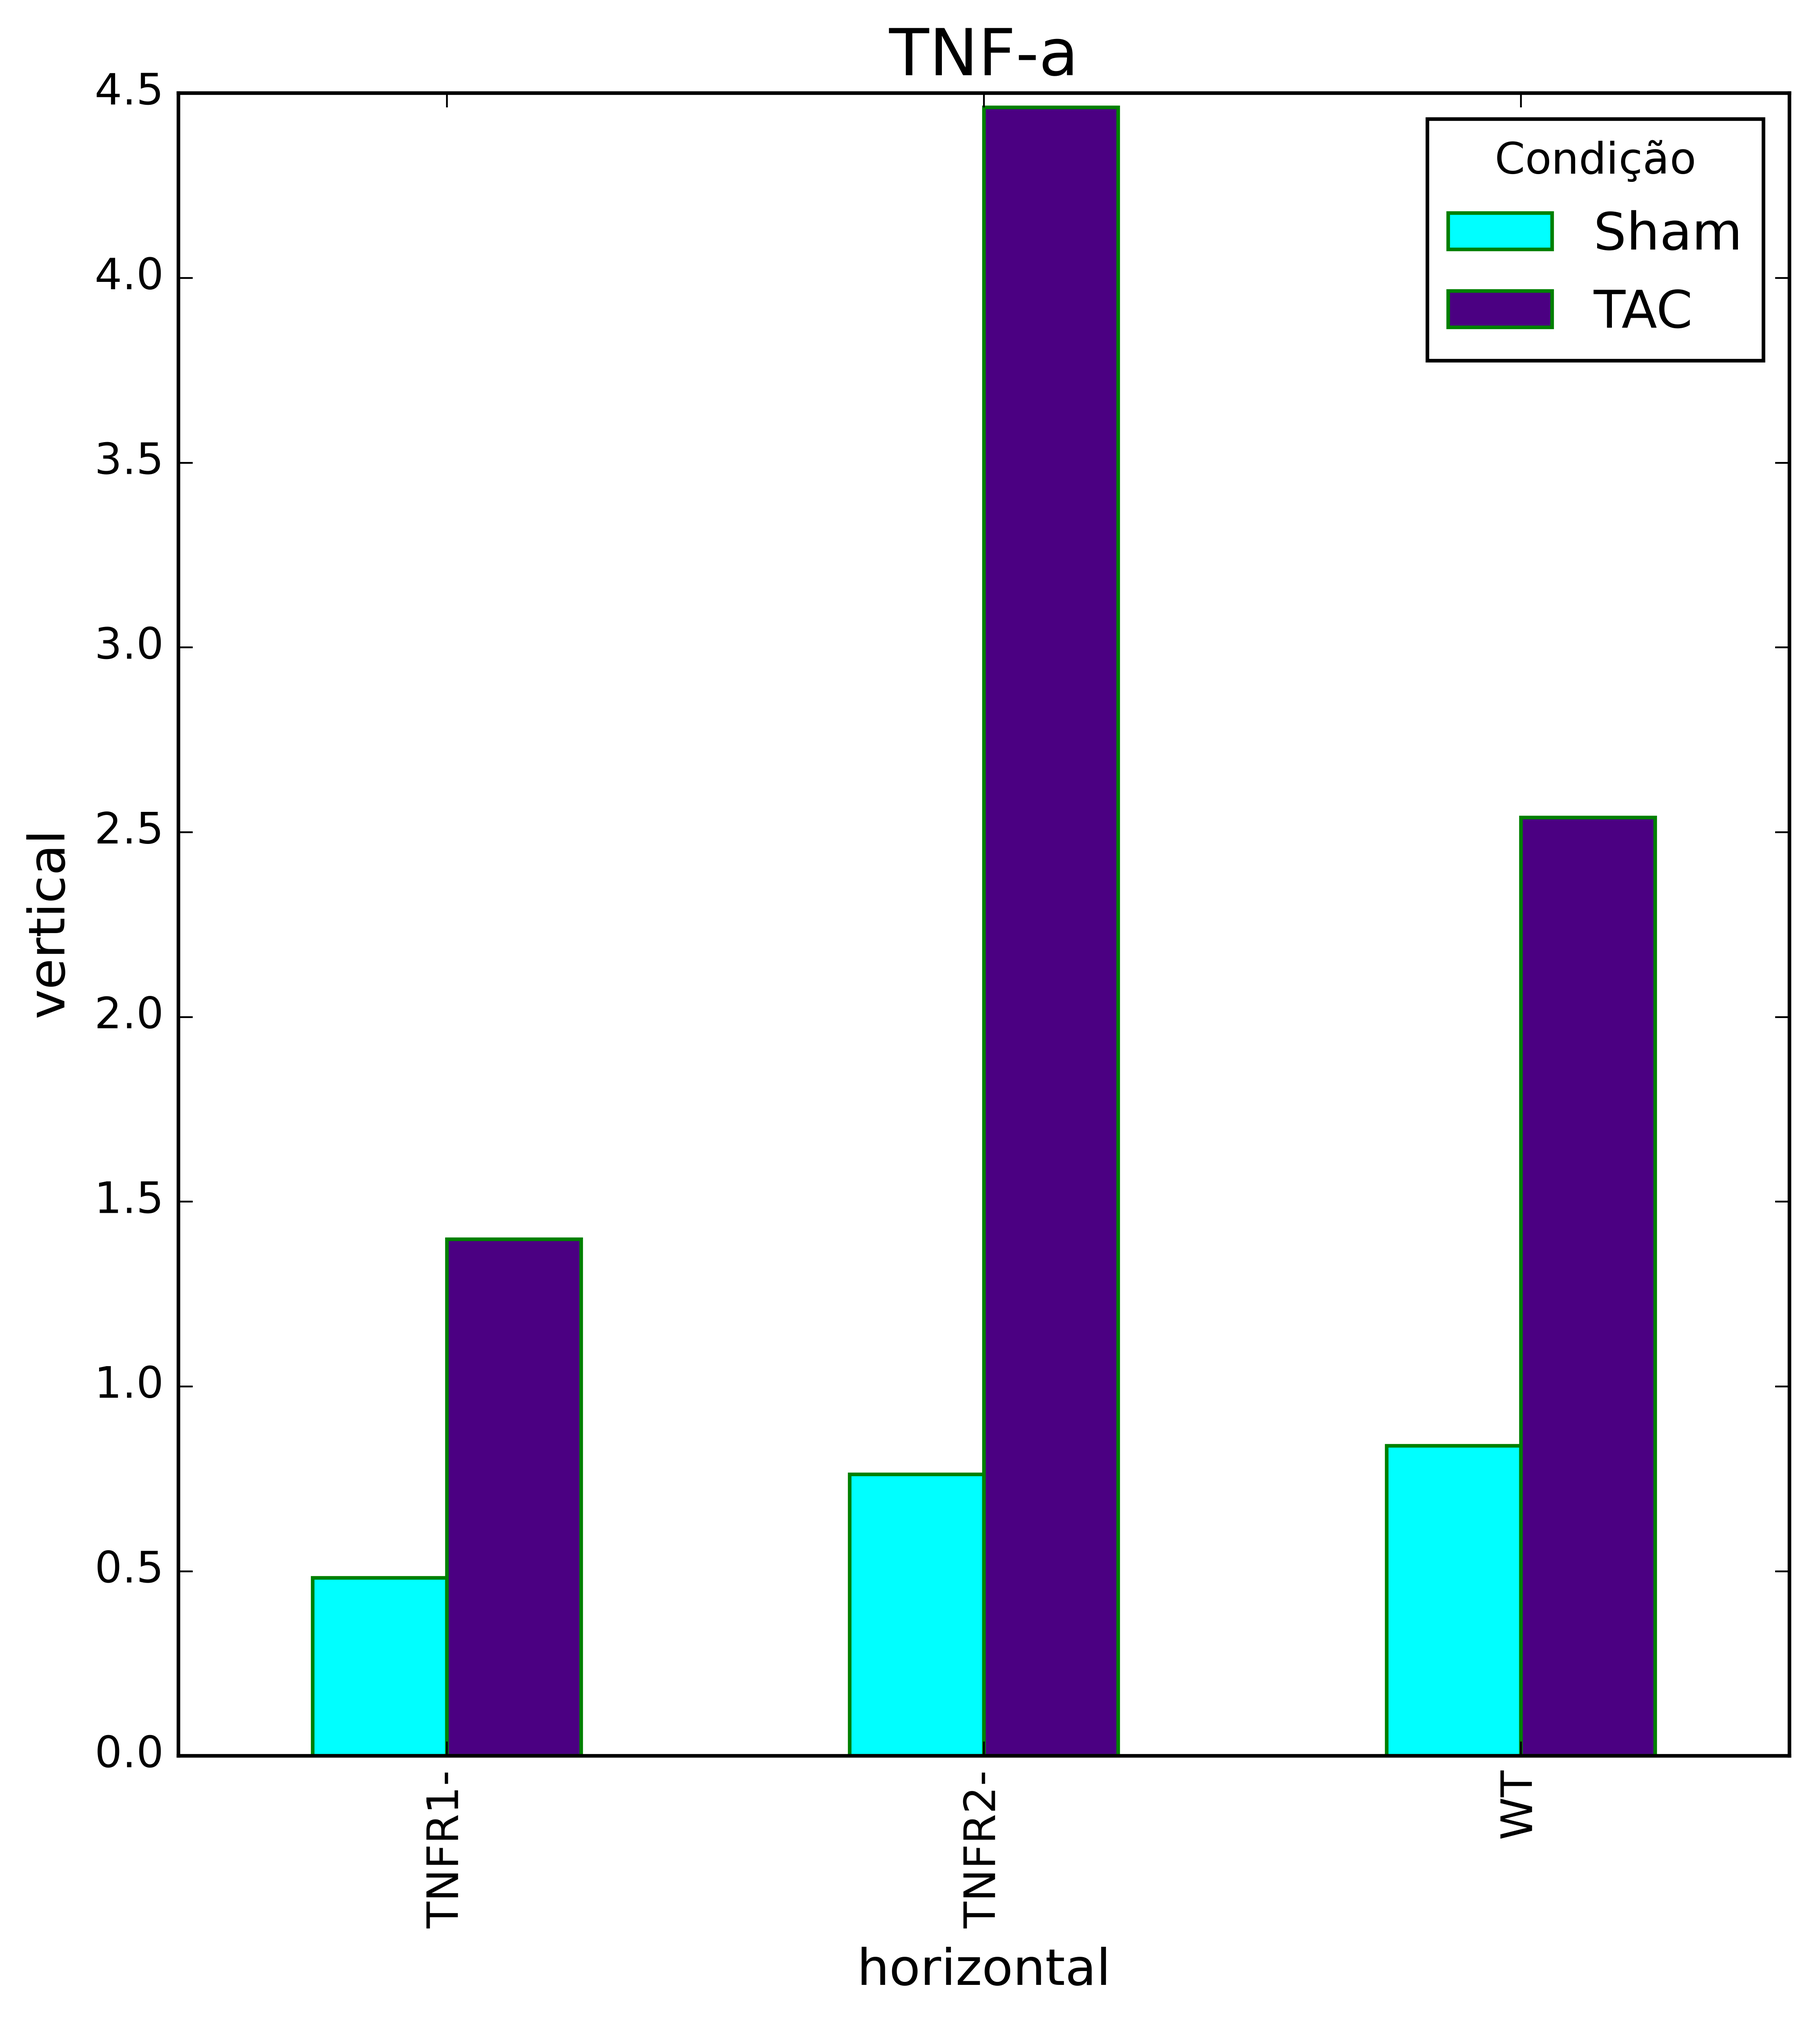
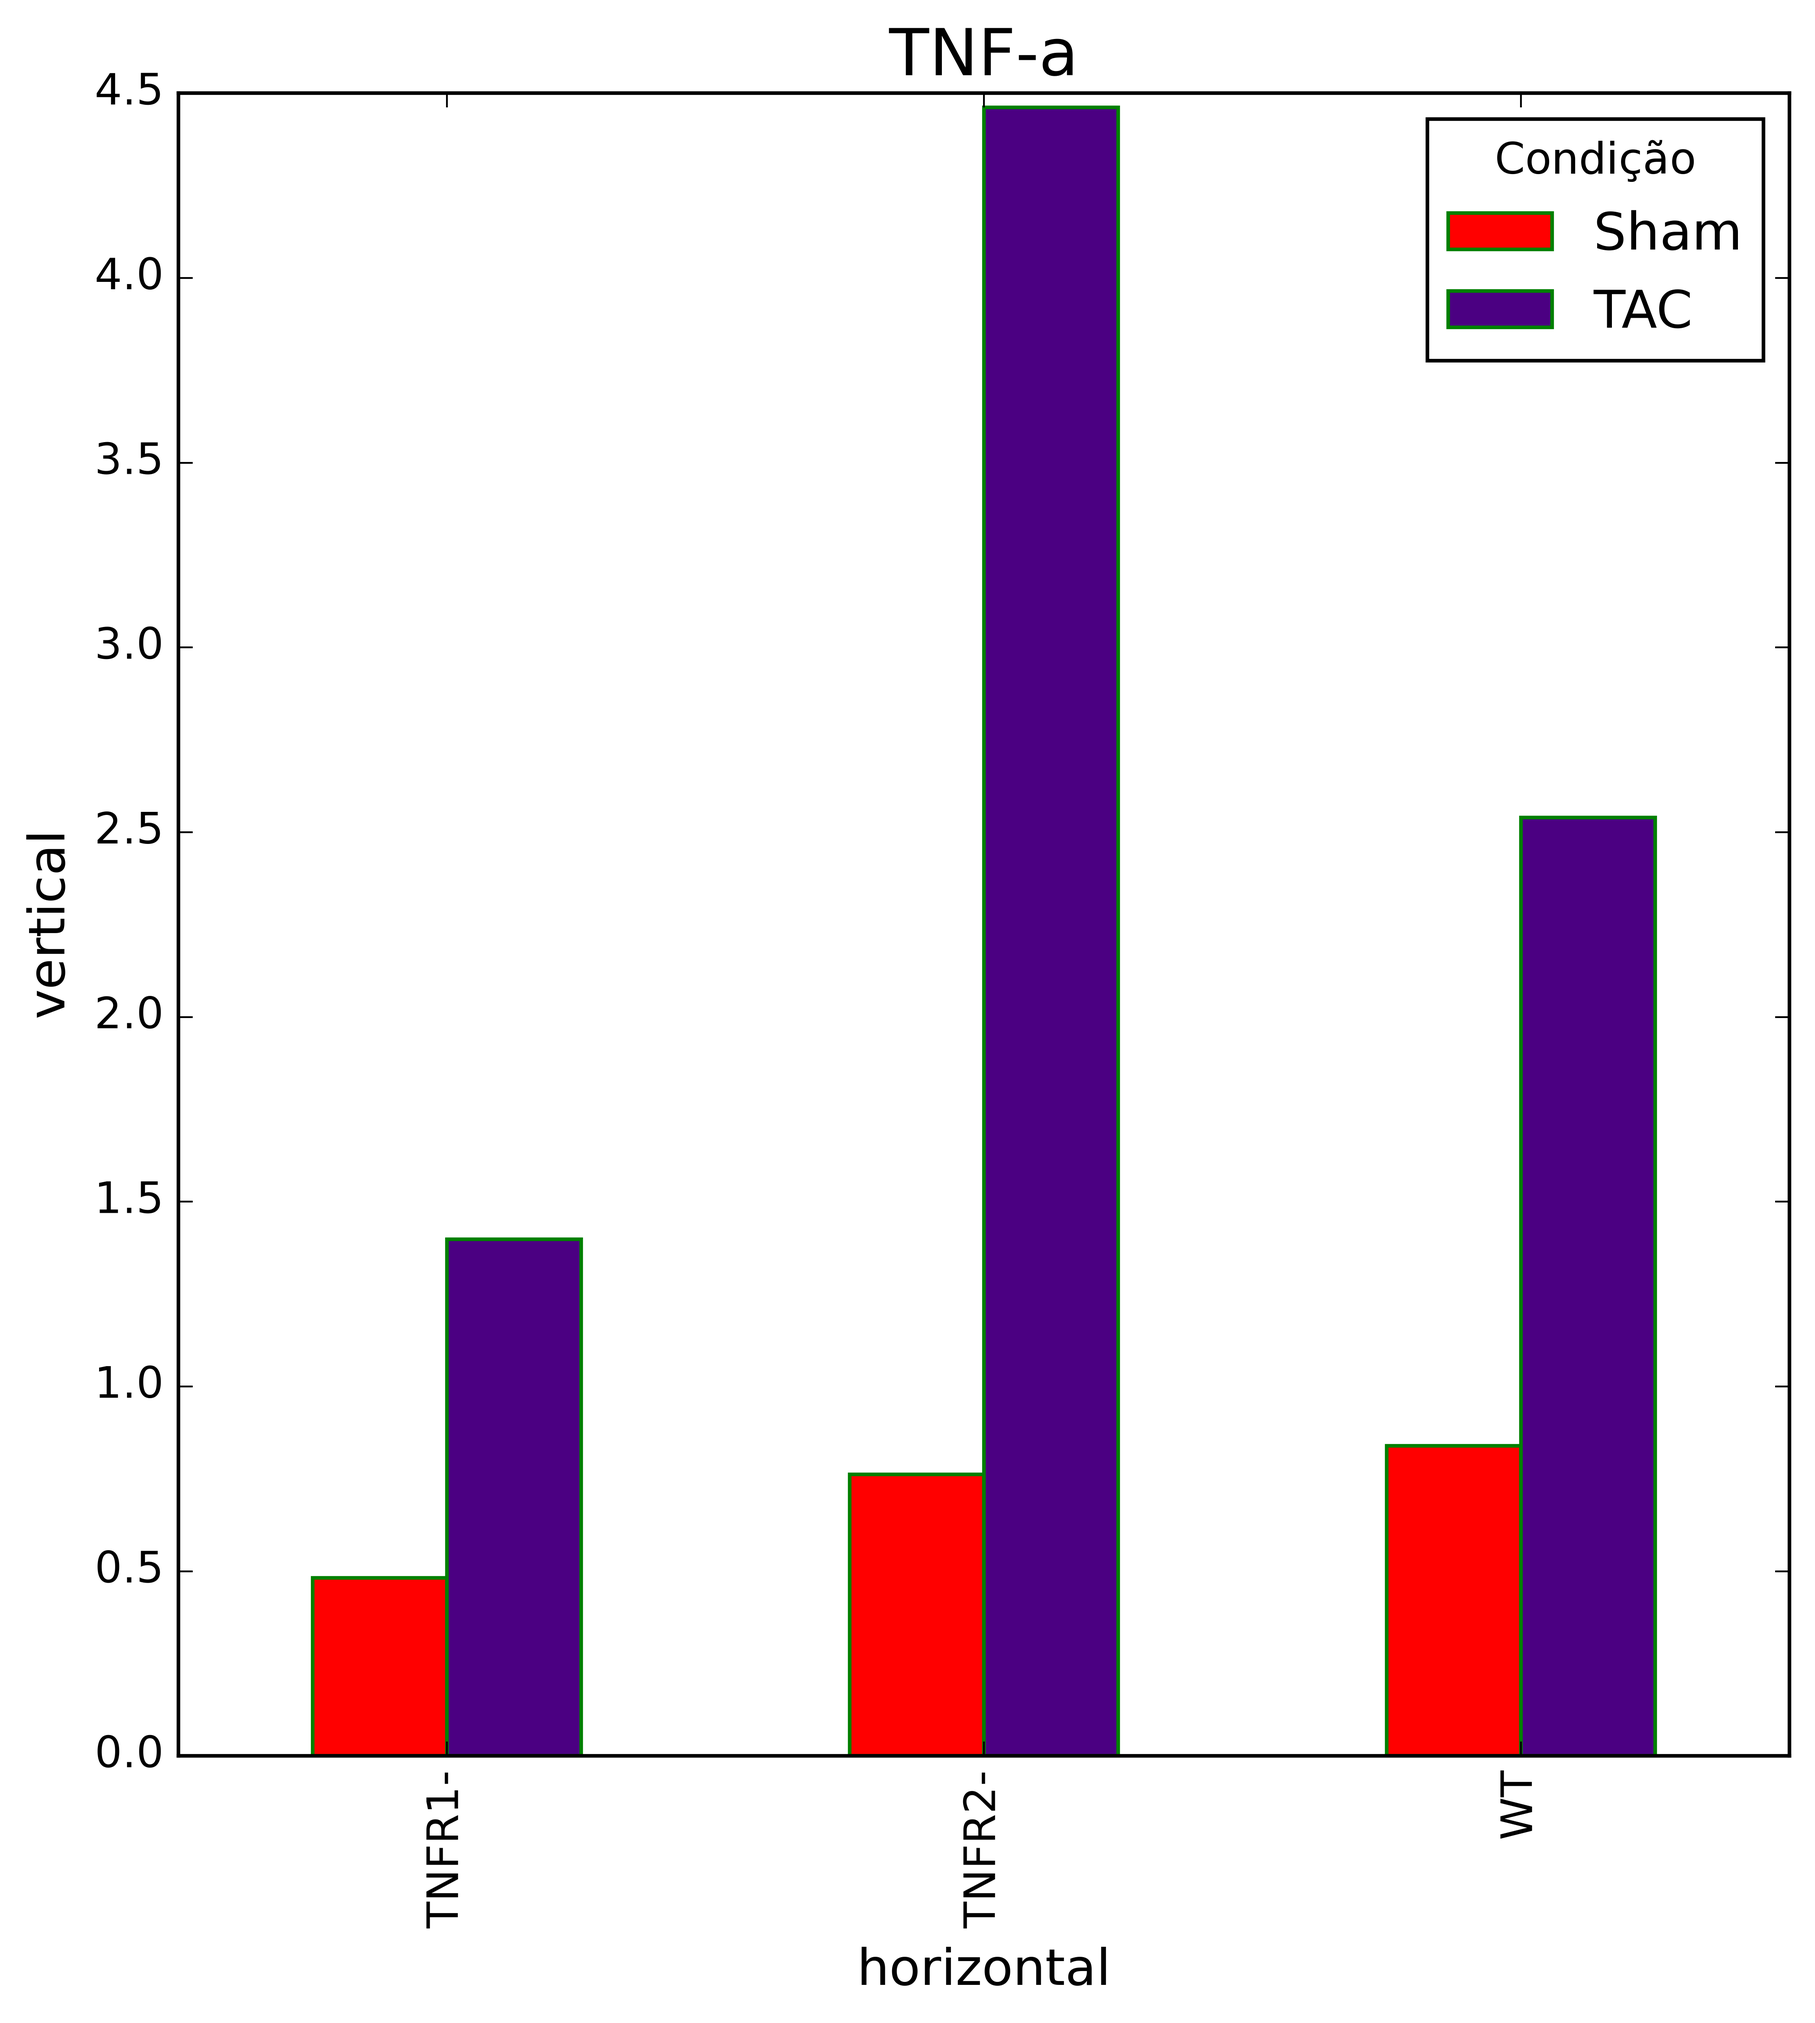
mudança de cor da barra

diff --git a/Problemas/Problema1.py b/Problemas/Problema1.py
@@ -19,7 +19,7 @@ print(tabela_medias)
 
 #Gráfico
 plt.style.use('classic')
-tabela_medias.plot(kind='bar',color=["cyan", "indigo"], edgecolor="green", linewidth=1, figsize=(8, 8))
+tabela_medias.plot(kind='bar',color=["red", "indigo"], edgecolor="green", linewidth=1, figsize=(8, 8))
 plt.title("TNF-a", fontsize = 18)
 plt.ylabel("vertical", fontsize = 14)
 plt.xlabel("horizontal", fontsize = 14)
